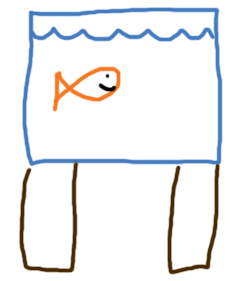
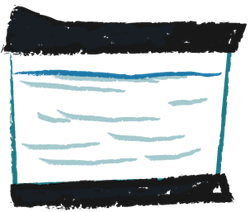
-Updated title screen -Replaced placeholders with assets

diff --git a/PangTang/PangTang/Game1.cs b/PangTang/PangTang/Game1.cs
@@ -25,6 +25,7 @@ namespace PangTang
         GraphicsDeviceManager graphics;
         SpriteBatch spriteBatch;
 
+        Title title; // Title screen for the game.
         Nozzle nozzle; // Nozzle for the game.
         Funnel funnel; // Funnel for the game.
         Water water; // Water drops for the game.
@@ -49,6 +50,7 @@ namespace PangTang
         }
 
         KeyboardState keyboardState;
+        MouseState mouseState;
         GamePadState gamePadState;
         int gameState;  // The current game state
 
@@ -133,57 +135,69 @@ namespace PangTang
 
             // TODO: use this.Content to load your game content here
 
-            // Temporary texture for loading textures. In this case the funnel, nozzle, etc.
-            Texture2D[] tempTexture;
+            // Temporary texture for loading textures. e.g. The title logo
+            Texture2D tempTexture;
+
+            // Temporary texture for loading textures that are animated. In this case the funnel, nozzle, etc.
+            Texture2D[] tempTextureArray;
 
             // Same as tempTexture, but this one is used for the tank.
-            Texture2D[,] temp2DTexture;
+            Texture2D[,] tempTexture2DArray;
+
+            // Load title texture
+            tempTexture = Content.Load<Texture2D>("title");
+
+            tempTextureArray = new Texture2D[3];
+            tempTextureArray[0] = Content.Load<Texture2D>("tank_1_0");
+            tempTextureArray[1] = Content.Load<Texture2D>("tank_1_1");
+            tempTextureArray[2] = Content.Load<Texture2D>("tank_1_2");
+            //new Title(tempTexture, tempTextureArray, "backgroundTexture", new Rectangle(0, 0, graphics.PreferredBackBufferWidth, graphics.PreferredBackBufferHeight));
+            title = new Title(tempTexture, tempTextureArray, new Rectangle(0, 0, graphics.PreferredBackBufferWidth, graphics.PreferredBackBufferHeight));
 
             // Load the nozzle texture
-            tempTexture = new Texture2D[3];
-            tempTexture[0] = Content.Load<Texture2D>("nozzle_0");
-            tempTexture[1] = Content.Load<Texture2D>("nozzle_1");
-            tempTexture[2] = Content.Load<Texture2D>("nozzle_2");
-            nozzle = new Nozzle(tempTexture, playAreaRectangle);
+            tempTextureArray = new Texture2D[3];
+            tempTextureArray[0] = Content.Load<Texture2D>("nozzle_0");
+            tempTextureArray[1] = Content.Load<Texture2D>("nozzle_1");
+            tempTextureArray[2] = Content.Load<Texture2D>("nozzle_2");
+            nozzle = new Nozzle(tempTextureArray, playAreaRectangle);
 
             // Load the funnel texture
-            tempTexture = new Texture2D[3];
-            tempTexture[0] = Content.Load<Texture2D>("funnel_0");
-            tempTexture[1] = Content.Load<Texture2D>("funnel_1");
-            tempTexture[2] = Content.Load<Texture2D>("funnel_2");
-            funnel = new Funnel(tempTexture, playAreaRectangle);
+            tempTextureArray = new Texture2D[3];
+            tempTextureArray[0] = Content.Load<Texture2D>("funnel_0");
+            tempTextureArray[1] = Content.Load<Texture2D>("funnel_1");
+            tempTextureArray[2] = Content.Load<Texture2D>("funnel_2");
+            funnel = new Funnel(tempTextureArray, playAreaRectangle);
 
             // Load the water texture
-            tempTexture = new Texture2D[3];
-            tempTexture[0] = Content.Load<Texture2D>("water_0");
-            tempTexture[1] = Content.Load<Texture2D>("water_1");
-            tempTexture[2] = Content.Load<Texture2D>("water_2");
-            water = new Water(tempTexture, playAreaRectangle);
+            tempTextureArray = new Texture2D[3];
+            tempTextureArray[0] = Content.Load<Texture2D>("water_0");
+            tempTextureArray[1] = Content.Load<Texture2D>("water_1");
+            tempTextureArray[2] = Content.Load<Texture2D>("water_2");
+            water = new Water(tempTextureArray, playAreaRectangle);
 
             // Load Tank (3x the sprites)
-            temp2DTexture = new Texture2D[3, 3];
-            temp2DTexture[0, 0] = Content.Load<Texture2D>("tank_0_0"); 
-            temp2DTexture[0, 1] = Content.Load<Texture2D>("tank_0_1"); 
-            temp2DTexture[0, 2] = Content.Load<Texture2D>("tank_0_2");
+            tempTexture2DArray = new Texture2D[3, 3];
+            tempTexture2DArray[0, 0] = Content.Load<Texture2D>("tank_0_0"); 
+            tempTexture2DArray[0, 1] = Content.Load<Texture2D>("tank_0_1"); 
+            tempTexture2DArray[0, 2] = Content.Load<Texture2D>("tank_0_2");
 
-            temp2DTexture[1, 0] = Content.Load<Texture2D>("tank_1_0");
-            temp2DTexture[1, 1] = Content.Load<Texture2D>("tank_1_1");
-            temp2DTexture[1, 2] = Content.Load<Texture2D>("tank_1_2");
+            tempTexture2DArray[1, 0] = Content.Load<Texture2D>("tank_1_0");
+            tempTexture2DArray[1, 1] = Content.Load<Texture2D>("tank_1_1");
+            tempTexture2DArray[1, 2] = Content.Load<Texture2D>("tank_1_2");
 
-            temp2DTexture[2, 0] = Content.Load<Texture2D>("tank_2_0");
-            temp2DTexture[2, 1] = Content.Load<Texture2D>("tank_2_1");
-            temp2DTexture[2, 2] = Content.Load<Texture2D>("tank_2_2");
+            tempTexture2DArray[2, 0] = Content.Load<Texture2D>("tank_2_0");
+            tempTexture2DArray[2, 1] = Content.Load<Texture2D>("tank_2_1");
+            tempTexture2DArray[2, 2] = Content.Load<Texture2D>("tank_2_2");
 
-            tank = new Tank(temp2DTexture, tankAreaRectangle);
+            tank = new Tank(tempTexture2DArray, tankAreaRectangle);
 
             // Load fonts
             dropsCaughtFont = Content.Load<SpriteFont>("dropsCaughtFont");
-            titleScreenFont = Content.Load<SpriteFont>("titleScreenFont");
 
             // Load Border
-            tempTexture = new Texture2D[1];
-            tempTexture[0] = Content.Load<Texture2D>("tempBorder");
-            border = new Border(tempTexture[0], playAreaRectangle);
+            tempTextureArray = new Texture2D[1];
+            tempTextureArray[0] = Content.Load<Texture2D>("tempBorder");
+            border = new Border(tempTextureArray[0], playAreaRectangle);
 
             StartGame();
         }
@@ -207,10 +221,16 @@ namespace PangTang
             switch (gameState)
             {
                 case 0: // Title screen
-                    keyboardState = Keyboard.GetState();
+                    this.IsMouseVisible = true;
+                    //keyboardState = Keyboard.GetState();
+                    mouseState = Mouse.GetState();
                     gamePadState = GamePad.GetState(PlayerIndex.One);
-                    if (keyboardState.IsKeyDown(Keys.S))
+                    //if (keyboardState.IsKeyDown(Keys.S))
+                    if (mouseState.LeftButton == ButtonState.Pressed)
+                    {
+                        this.IsMouseVisible = false;
                         gameState = 2;
+                    }
                     break;
                 case 1: // Starting animation
                     break;
@@ -284,7 +304,8 @@ namespace PangTang
             {
                 case 0: // Title Screen
                     spriteBatch.Begin();
-                    
+
+                    title.Draw(spriteBatch);
                     DrawText();
 
                     spriteBatch.End();
@@ -328,8 +349,7 @@ namespace PangTang
             switch (gameState)
             {
                 case 0: // Title Screen
-                    spriteBatch.DrawString(titleScreenFont, "Temporary Title", new Vector2(350, 100), Color.Black);
-                    spriteBatch.DrawString(dropsCaughtFont, "Press S to Start", new Vector2(350, 150), Color.Black);
+                    spriteBatch.DrawString(dropsCaughtFont, "Click to start.", new Vector2(350, (graphics.PreferredBackBufferHeight / 10)*9), Color.Black);
                     break;
                 case 1: // Starting Animation
                     break;

diff --git a/PangTang/PangTang/Title.cs b/PangTang/PangTang/Title.cs
@@ -1,0 +1,90 @@
+using System;
+using System.Collections.Generic;
+using System.Linq;
+using System.Text;
+
+using Microsoft.Xna.Framework;
+using Microsoft.Xna.Framework.Graphics;
+
+namespace PangTang
+{
+    class Title
+    {
+        /*
+         * Position
+         */
+        Vector2 logoPosition;
+        Vector2 tankPosition;
+
+        /*
+         * States
+         */
+        bool gameStarted = false; // true if user clicks on tank.
+
+        /*
+         * Other
+         */
+        Texture2D logoTexture;
+        Texture2D[] tankTexture;
+        Texture2D backgroundTexture;
+        int textureStage;
+        Rectangle windowAreaRectangle;
+
+        /*
+         * Constructor
+         */
+        //public Title(Texture2D logoTexture, Texture2D[] tankTexture, Texture2D backgroundTexture, Rectangle windowAreaRectangle)
+        public Title(Texture2D logoTexture, Texture2D[] tankTexture, Rectangle windowAreaRectangle)
+        {
+            // Establish the logo, tank, and background textures and the window area
+            this.logoTexture = logoTexture;
+            this.tankTexture = tankTexture;
+            // this.backgroundTexture = backgroundTexture;
+            textureStage = 0;
+            this.windowAreaRectangle = windowAreaRectangle;
+
+            // Positioning the logo
+            logoPosition.X = windowAreaRectangle.Width / 2;
+            logoPosition.X -= logoTexture.Width / 2;
+            logoPosition.Y = windowAreaRectangle.Height / 10;
+
+            // Positioning the tank
+            tankPosition.X = (windowAreaRectangle.Width - tankTexture[0].Width) / 2;
+            tankPosition.X += windowAreaRectangle.X;
+            tankPosition.Y = (windowAreaRectangle.Height - tankTexture[0].Height) / 2;
+            tankPosition.Y += windowAreaRectangle.Y;
+        }
+
+
+        /*
+         * Voids
+         */
+        public void Update()
+        {
+            // TODO  detect mouse click on on tank. Change gameStarted to true if so.
+        }
+
+        public void Draw(SpriteBatch spriteBatch)
+        {
+            spriteBatch.Draw(logoTexture, logoPosition, Color.White);
+
+            if (textureStage <= 4) // Draw first sprite.
+                spriteBatch.Draw(tankTexture[0], tankPosition, Color.White);
+
+
+            if (textureStage > 4 && textureStage <= 8) // Draw second sprite.
+                spriteBatch.Draw(tankTexture[1], tankPosition, Color.White);
+
+            if (textureStage > 8) // Draw third sprite.
+            {
+                spriteBatch.Draw(tankTexture[2], tankPosition, Color.White);
+
+                // Reset the texture stage once the third sprite finishes animating.
+                if (textureStage >= 12)
+                    textureStage = -1;
+            }
+
+            textureStage++;
+        }
+    }
+}

diff --git a/PangTang/PangTang/Water.cs b/PangTang/PangTang/Water.cs
@@ -106,7 +106,7 @@ namespace PangTang
                  (int)positions[which].X,
                  (int)positions[which].Y + texture[0].Height,
                  texture[0].Width,
-                 texture[0].Height / 10);
+                 texture[0].Height / 2);
 
                 if (funnelMouth.Intersects(waterLocation))
                 {
